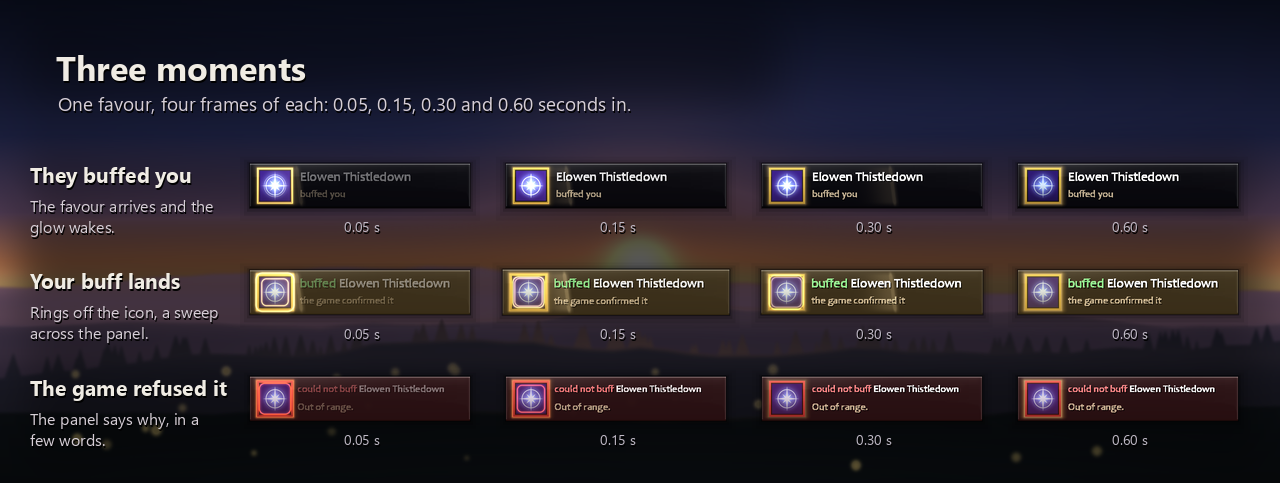
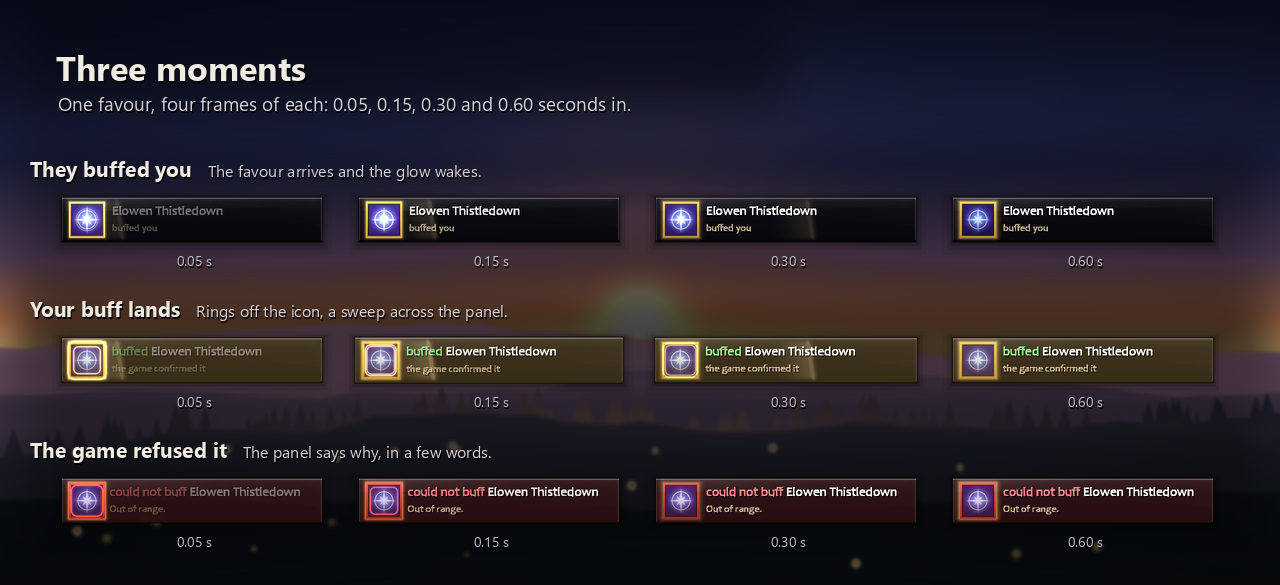
CI: the generator check runs without popen, and the moments fit Linux fonts
The Lua lupa builds on Linux has no io.popen, so the texture generators
run through os.execute and a log; CI's test job has no numpy or Pillow,
and the check stands aside there (the full selftest judges it). The
refused moment's line was cut with the fonts CI draws with: the moments
and the hero get a 260-wide panel, the row titles stand above the frames.

diff --git a/tools/make-screenshots.py b/tools/make-screenshots.py
@@ -273,6 +273,13 @@ local function boot(ns, names)
 	return ns
 end
 
+-- The panel a little wider than the default, for the moments that name
+-- Elowen Thistledown in full: "could not buff Elowen Thistledown" is cut at
+-- 220 with the fonts CI draws with, and the strip's rows keep one size.
+local function roomy(ns)
+	ns.db.profile.prompt.width = 260
+end
+
 local function owe(ns, name, class)
 	ns.owed[name] = { expires = GetTime() + 100, at = GetTime(), class = class or "PRIEST" }
 end
@@ -372,6 +379,7 @@ local added = {
 	-- the panel, the words fully drawn.
 	{ key = "shot-landed", at = 0.20, setup = function(ns)
 		boot(ns, { nameplate1 = ELOWEN })
+		roomy(ns)
 		owe(ns, "Elowen Thistledown")
 		settle(ns)
 		ns.Prompt:ShowOutcome("cast", "Elowen Thistledown")
@@ -382,11 +390,13 @@ local added = {
 	-- the picture's choice (`--at`), not the state's.
 	{ key = "shot-moment-arrival", at = 0.05, setup = function(ns)
 		boot(ns, { nameplate1 = ELOWEN })
+		roomy(ns)
 		owe(ns, "Elowen Thistledown")
 		settle(ns)
 	end },
 	{ key = "shot-moment-refused", at = 0.15, setup = function(ns)
 		boot(ns, { nameplate1 = ELOWEN })
+		roomy(ns)
 		owe(ns, "Elowen Thistledown")
 		settle(ns)
 		ns.Prompt:ShowOutcome("failed", "Elowen Thistledown", "Out of range.")
@@ -1866,7 +1876,7 @@ def picture_moment(snaps):
     """Three moments of one favour, a row of four frames each: the real
     renderer's output at 0.05, 0.15, 0.30 and 0.60 s after the moment. Drawn
     at the game's own size, because four panels at twice that do not fit the
-    page's width; the titles and a caption stand to the left."""
+    page's width; each row's title and caption stand above its frames."""
     zoom = 1.0
     rows = []
     for key, *_ in MOMENTS:
@@ -1882,18 +1892,19 @@ def picture_moment(snaps):
     fw = max(l.size[0] for frames in rows for l in frames)
     fh = max(l.size[1] for frames in rows for l in frames)
     gap = 4
-    left = WIDTH - 24 - 4 * fw - 3 * gap
+    left = (WIDTH - 4 * fw - 3 * gap) / 2
     top = 150
-    row = fh + 36
+    above = 34
+    row = above + fh + 36
     board = Board(top + row * len(rows) + 14, seed=19, sun=(0.50, 0.55))
     heading(board, "Three moments",
             "One favour, four frames of each: 0.05, 0.15, 0.30 and 0.60 seconds in.")
     for n, ((_, title, line, _, _), frames) in enumerate(zip(MOMENTS, rows)):
-        y = top + row * n
-        board.shade(18, y - 6, WIDTH - 12, y + fh + 30, 0.4)
-        board.text((30, y + 10), title, 21, bold=True)
-        for k, text in enumerate(wrap_line(line, 16, left - 30 - 20)):
-            board.text((30, y + 44 + k * 21), text, 16, fill=(214, 206, 214))
+        board.shade(18, top + row * n - 6, WIDTH - 12, top + row * n + above + fh + 30, 0.4)
+        board.text((30, top + row * n + 4), title, 21, bold=True)
+        board.text((30 + caption_face(title, 21, True).getlength(title) + 16, top + row * n + 9), line, 16,
+                   fill=(214, 206, 214))
+        y = top + row * n + above
         for i, (t, layer) in enumerate(zip(MOMENT_TIMES, frames)):
             x = left + i * (fw + gap)
             # Every frame by the button's top left, so the panel stands still
